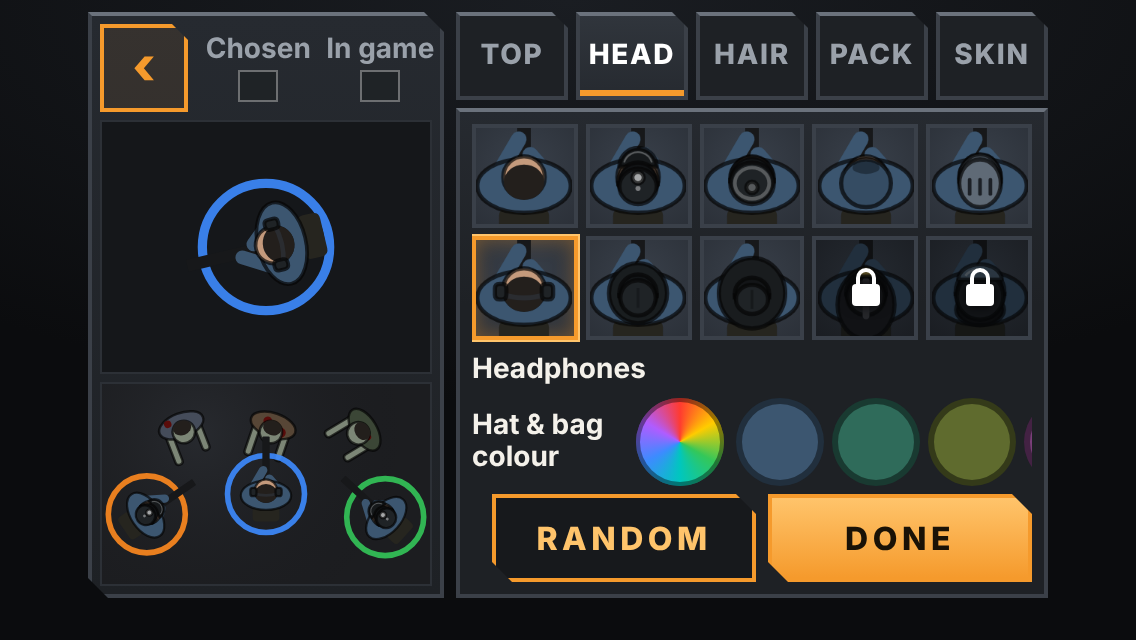
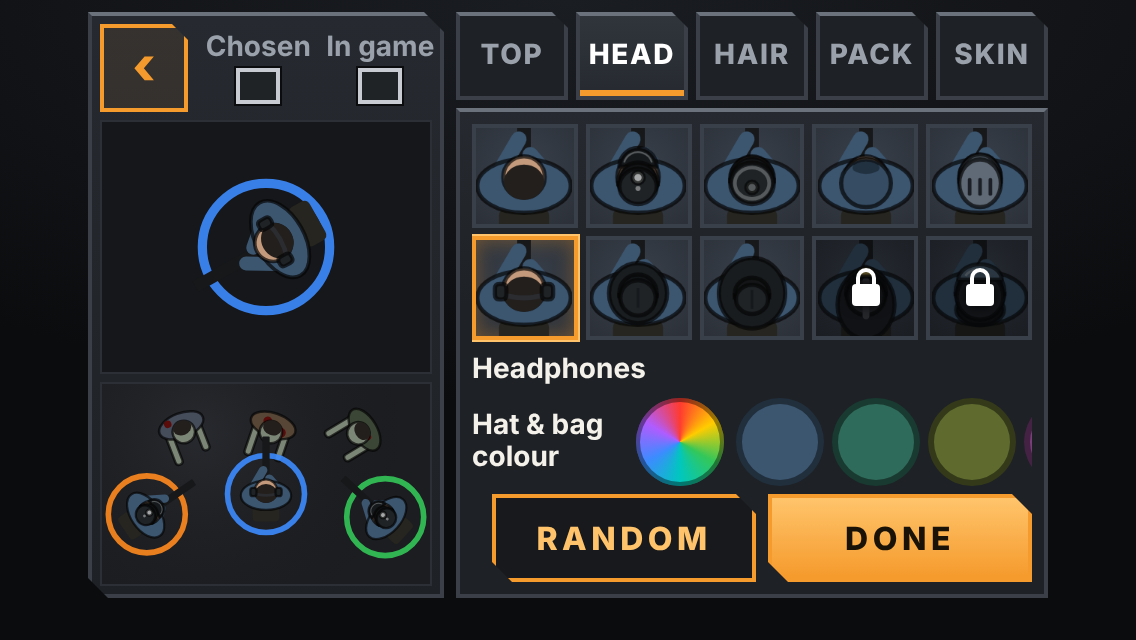
Story 7.10 review fixes: L1 set_look ignored once Start began, L2 base checked in the save transaction (stale answer), L3 chip frame, L4 only retryable failures kept pending, L5 test title; screenshots regenerated
Claude-Session: https://claude.ai/code/session_01CgLgPV1eLFk5ts9nKEAyBU

Changed region(s): [[0.1849, 0.0625, 0.4005, 0.1875], [0.154, 0.3125, 0.2773, 0.4375]]

diff --git a/apps/client/src/net/lookSave.test.ts b/apps/client/src/net/lookSave.test.ts
@@ -53,7 +53,9 @@ describe("Done (AC 8, 9, 11; E4)", () => {
     expect(url).toBe("/api/account/look");
     expect(init.method).toBe("POST");
     expect(init.credentials).toBe("same-origin");
-    expect(JSON.parse(init.body as string)).toEqual({ look: A });
+    expect(JSON.parse(init.body as string)).toEqual({ look: A }); // a Done sends no base (last Done wins)
+    await saveLookCall(B, { fetch: f as unknown as typeof fetch, url: () => "/api/account/look" }, null);
+    expect(JSON.parse((f.mock.calls[1] as unknown as [string, RequestInit])[1].body as string)).toEqual({ look: B, base: null });
     expect((await saveLookCall(A, { fetch: (async () => new Response("", { status: 429 })) as unknown as typeof fetch })).kind).toBe("failed");
     expect(await saveLookCall(A, { fetch: (async () => Promise.reject(new Error("offline"))) as unknown as typeof fetch })).toEqual({ kind: "failed", status: 0 });
   });
@@ -92,6 +94,22 @@ describe("Done (AC 8, 9, 11; E4)", () => {
     expect(looks.pending()).toBeNull();
   });
 
+  it("review L4: a deterministic refusal (400, 403, 413) is never kept for a retry; 0 / 401 / 408 / 5xx are", async () => {
+    for (const status of [400, 403, 413]) {
+      const s = mem();
+      const looks = deviceLookStore(() => s);
+      looks.set(A);
+      expect(await saveFromEditor(B, deps(s, async () => ({ kind: "failed", status })))).toEqual({ kind: "refused" });
+      expect(looks.pending()).toBeNull();
+      expect(looks.get()).toBe(A);
+    }
+    for (const status of [0, 401, 408, 500, 503]) {
+      const s = mem();
+      expect(await saveFromEditor(B, deps(s, async () => ({ kind: "failed", status })))).toEqual({ kind: "offline" });
+      expect(deviceLookStore(() => s).pending()?.code).toBe(B);
+    }
+  });
+
   it("storage throws (private mode) → Done still saves to the server and still reports an offline save honestly; nothing throws", async () => {
     await expect(saveFromEditor(B, deps(blocked, async () => ({ kind: "saved", look: B })))).resolves.toEqual({ kind: "saved", look: B });
     await expect(saveFromEditor(B, deps(blocked, async () => ({ kind: "failed", status: 0 })))).resolves.toEqual({ kind: "offline" });
@@ -109,7 +127,7 @@ describe("the retry at the next start (AC 9; beat the rule 3, 4)", () => {
     looks.savePending(B, 1);
     const call = vi.fn(async () => ({ kind: "saved", look: B }) as LookSaveCall);
     expect(await syncPendingLook(deps(s, call, { session: session(A) }))).toBe("synced");
-    expect(call).toHaveBeenCalledWith(B);
+    expect(call).toHaveBeenCalledWith(B, A); // review L2: the base travels, the server re-checks it
     expect(looks.pending()).toBeNull();
     expect(s.map.get(DEVICE_LOOK_KEY)).toBe(B);
     expect(await syncPendingLook(deps(s, call, { session: session(B) }))).toBe("none");
@@ -126,6 +144,26 @@ describe("the retry at the next start (AC 9; beat the rule 3, 4)", () => {
     expect(call).not.toHaveBeenCalled();
     expect(looks.get()).toBe(C);
     expect(looks.pending()).toBeNull();
+  });
+
+  it("review L2: the server answers stale (another phone saved between the session read and the send) → its look wins", async () => {
+    const s = mem();
+    const looks = deviceLookStore(() => s);
+    looks.set(A);
+    looks.savePending(B, 1);
+    expect(await syncPendingLook(deps(s, async () => ({ kind: "saved", look: C, stale: true }), { session: session(A) }))).toBe("server_won");
+    expect(looks.get()).toBe(C);
+    expect(looks.pending()).toBeNull();
+  });
+
+  it("review L4: a pending look the server refuses for good (400) is dropped, not retried at every start", async () => {
+    const s = mem();
+    const looks = deviceLookStore(() => s);
+    looks.set(A);
+    looks.savePending(B, 1);
+    expect(await syncPendingLook(deps(s, async () => ({ kind: "failed", status: 400 }), { session: session(A) }))).toBe("offline");
+    expect(looks.pending()).toBeNull();
+    expect(looks.get()).toBe(A);
   });
 
   it("a session answer while pending: kept if the server still has the base, replaced if it moved (deviceLook.set)", () => {
@@ -150,7 +188,7 @@ describe("the retry at the next start (AC 9; beat the rule 3, 4)", () => {
     expect(await syncPendingLook(deps(s, call, { session: session(undefined) }))).toBe("offline");
     expect(call).not.toHaveBeenCalled();
     expect(await syncPendingLook(deps(s, call, { session: session(null) }))).toBe("offline");
-    expect(call).toHaveBeenCalledWith(B);
+    expect(call).toHaveBeenCalledWith(B, null);
     expect(looks.pending()?.code).toBe(B);
   });
 

diff --git a/apps/client/src/net/lookSave.ts b/apps/client/src/net/lookSave.ts
@@ -16,10 +16,16 @@ import { progressStore } from "./progressStore";
 
 export const DEFAULT_LOOK_CODE = encodeLook(DEFAULT_LOOK);
 
-export type DoneResult = { kind: "saved"; look: string | null } | { kind: "rateLimited" } | { kind: "offline" };
+export type DoneResult = { kind: "saved"; look: string | null } | { kind: "rateLimited" } | { kind: "offline" } | { kind: "refused" };
+
+/**
+ * Review L4: the failures worth keeping a look on the phone for and retrying later — no answer (0), no account yet
+ * (401), a busy or down save server (408, 5xx). A deterministic refusal (400, 403, 413…) would fail again every start.
+ */
+export const retryable = (status: number): boolean => status === 0 || status === 401 || status === 408 || status >= 500;
 
 export interface LookSaveDeps {
-  call: (code: string) => Promise<LookSaveCall>;
+  call: (code: string, base?: string | null) => Promise<LookSaveCall>;
   session: (over?: Partial<AccountDeps>) => ReturnType<typeof accountSession>;
   looks: DeviceLookStore;
   /** The hub's copy of my progress: the stored look replaces its `look` (when it has one). */
@@ -27,7 +33,7 @@ export interface LookSaveDeps {
   now: () => number;
 }
 
-const defaults = (): LookSaveDeps => ({ call: (code) => saveLookCall(code), session: accountSession, looks: deviceLook, progress: progressStore, now: Date.now });
+const defaults = (): LookSaveDeps => ({ call: (code, base) => saveLookCall(code, {}, base), session: accountSession, looks: deviceLook, progress: progressStore, now: Date.now });
 
 function stored(look: string | null, deps: LookSaveDeps): void {
   deps.looks.markSynced(look);
@@ -44,6 +50,7 @@ export async function saveFromEditor(code: string, over: Partial<LookSaveDeps> =
     return { kind: "saved", look: r.look };
   }
   if (r.status === 429) return { kind: "rateLimited" };
+  if (!retryable(r.status)) return { kind: "refused" };
   deps.looks.savePending(code === DEFAULT_LOOK_CODE ? null : code, deps.now());
   return { kind: "offline" };
 }
@@ -62,10 +69,14 @@ export async function syncPendingLook(over: Partial<LookSaveDeps> = {}): Promise
     deps.looks.markSynced(serverLook); // another phone saved since: its newer look wins
     return "server_won";
   }
-  const r = await deps.call(p.code ?? DEFAULT_LOOK_CODE);
-  if (r.kind !== "saved") return "offline";
+  // Review L2: the server re-checks the base inside its save transaction (another phone may save in between).
+  const r = await deps.call(p.code ?? DEFAULT_LOOK_CODE, p.base);
+  if (r.kind !== "saved") {
+    if (!retryable(r.status) && r.status !== 429) deps.looks.markSynced(serverLook); // review L4: it can never be stored
+    return "offline";
+  }
   stored(r.look, deps);
-  return "synced";
+  return r.stale ? "server_won" : "synced";
 }
 
 let startSync: Promise<SyncResult> | null = null;

diff --git a/apps/server/src/meta/look.test.ts b/apps/server/src/meta/look.test.ts
@@ -150,6 +150,23 @@ describe("POST /account/look (Story 7.10 AC 8, 11; E2)", () => {
     expect(await stored(a.id)).toBe(STARTER); // the extra field is dropped by the decoder
   });
 
+  it("review L2 (two phones): a save with a base is stored only while the account still has that base; else the newer look is kept and answered stale", async () => {
+    const a = await account();
+    // phone A saves STARTER; phone B (offline earlier, edited from the default look = base null) retries OTHER
+    const OTHER = "v1|top:puffer|head:hood|hair:curly|pack:duffel|skin:2|c:112233,445566,778899";
+    expect((await post(port, { token: a.token, look: STARTER })).body.look).toBe(STARTER);
+    const stale = await post(port, { token: a.token, raw: JSON.stringify({ look: OTHER, base: null }) });
+    expect(stale.status).toBe(200);
+    expect(stale.body).toEqual({ ok: true, look: STARTER, stale: true });
+    expect(await stored(a.id)).toBe(STARTER); // A's newer look is kept
+    // with the right base it is stored (B edited from A's look)
+    const ok = await post(port, { token: a.token, raw: JSON.stringify({ look: OTHER, base: STARTER }) });
+    expect(ok.body).toEqual({ ok: true, look: OTHER });
+    expect(await stored(a.id)).toBe(OTHER);
+    // a base that is not a plausible look is refused by the schema
+    expect((await post(port, { token: a.token, raw: JSON.stringify({ look: OTHER, base: "x".repeat(100) }) })).status).toBe(400);
+  });
+
   it("403 for a foreign Origin when origins are set (CSRF), like the other account calls", async () => {
     const booted = await bootTestServer({ database, sessionSecret: SECRET, allowedOrigins: ["https://game.example"] });
     try {
@@ -171,7 +188,7 @@ describe("saveLook (unit): owned set from the locked row, 503 when the save serv
     expect(ownedFor(row).has("head:riot")).toBe(false);
     expect(ownedFor({ ...row, cosmetics: ["head:riot"] } as Progress).has("head:riot")).toBe(true);
     let written: string | null | undefined;
-    const progress = { saveLook: async (_id: string, f: (r: Progress) => string | null) => (written = f({ ...row, cosmetics: ["head:riot"] } as Progress)) } as unknown as ProgressRepo;
+    const progress = { saveLook: async (_id: string, f: (r: Progress) => string | null) => ({ look: (written = f({ ...row, cosmetics: ["head:riot"] } as Progress)), written: true }) } as unknown as ProgressRepo;
     const out = await saveLook({ cookieToken: "ab".repeat(16), look: STARTER.replace("head:beanie", "head:riot") }, { accounts, progress, ipLimiter: limiter(), accountLimiter: limiter(), logGate: limiter() });
     expect(out).toEqual({ status: 200, body: { ok: true, look: STARTER.replace("head:beanie", "head:riot") } });
     expect(written).toContain("head:riot");

diff --git a/apps/server/src/meta/look.ts b/apps/server/src/meta/look.ts
@@ -11,7 +11,7 @@
  */
 import { DEFAULT_LOOK, decodeLook, encodeLook, guestTokenSchema, ownedParts } from "@topdown/shared";
 import type { AccountsRepo } from "../db/accountsRepo";
-import type { Progress, ProgressRepo } from "../db/progressRepo";
+import { KEEP_LOOK, type Progress, type ProgressRepo } from "../db/progressRepo";
 import { ipKey, type SlidingWindowLimiter } from "../net/rateLimit";
 import { log } from "../ops/logger";
 import { hashGuestToken } from "../run/lobby";
@@ -25,7 +25,7 @@ export interface LookDeps {
 }
 
 export type LookOutcome =
-  | { status: 200; body: { ok: true; look: string | null } }
+  | { status: 200; body: { ok: true; look: string | null; stale?: true } }
   | { status: 401 | 429 | 503; error: "no_account" | "rate_limited" | "save_unavailable" };
 
 const DEFAULT_CODE = encodeLook(DEFAULT_LOOK);
@@ -53,7 +53,11 @@ export function lookIpAllowed(ip: string, deps: Pick<LookDeps, "ipLimiter" | "lo
   return false;
 }
 
-export async function saveLook(input: { cookieToken: string | null | undefined; look: string }, deps: LookDeps): Promise<LookOutcome> {
+/**
+ * `base` (review L2): the stored look the save was edited from (undefined = none sent: the last Done wins). When given,
+ * the look is stored only if the locked row still holds `base`; else the newer stored look is kept and answered `stale`.
+ */
+export async function saveLook(input: { cookieToken: string | null | undefined; look: string; base?: string | null | undefined }, deps: LookDeps): Promise<LookOutcome> {
   const token = guestTokenSchema.safeParse(input.cookieToken);
   if (!token.success) return { status: 401, error: "no_account" };
   let accountId: string;
@@ -70,13 +74,18 @@ export async function saveLook(input: { cookieToken: string | null | undefined; 
   }
   try {
     let replaced = 0;
-    const stored = await deps.progress.saveLook(accountId, (row) => {
+    const out = await deps.progress.saveLook(accountId, (row) => {
+      if (input.base !== undefined && row.look !== input.base) return KEEP_LOOK;
       const c = canonicalLook(input.look, ownedFor(row));
       replaced = c.replaced;
       return c.look;
     });
+    if (!out.written) {
+      log.info({ accountId }, "look_save_stale");
+      return { status: 200, body: { ok: true, look: out.look, stale: true } };
+    }
     log.info({ accountId, replaced }, "look_saved");
-    return { status: 200, body: { ok: true, look: stored } };
+    return { status: 200, body: { ok: true, look: out.look } };
   } catch {
     return { status: 503, error: "save_unavailable" }; // logged as db_error by the repository
   }

diff --git a/apps/client/src/net/account.ts b/apps/client/src/net/account.ts
@@ -203,9 +203,10 @@ export async function trainBoost(boost: TrainingBoostId, level: number, requestI
  * default look), or `failed` with the status (0 = no answer: offline, timeout; 429 = too many saves; 401 no account;
  * 5xx save server down). Never throws. The cookie names the account (`credentials: "same-origin"`).
  */
-export type LookSaveCall = { kind: "saved"; look: string | null } | { kind: "failed"; status: number };
+export type LookSaveCall = { kind: "saved"; look: string | null; stale?: boolean } | { kind: "failed"; status: number };
 
-export async function saveLookCall(code: string, over: Partial<AccountDeps> = {}): Promise<LookSaveCall> {
+/** `base` (review L2): only the start-up retry sends it (the look it was edited from); the server then refuses to overwrite a newer look. */
+export async function saveLookCall(code: string, over: Partial<AccountDeps> = {}, base?: string | null): Promise<LookSaveCall> {
   const deps = { ...defaults(), url: () => `${serverUrl()}${ACCOUNT_LOOK_PATH}`, ...over };
   const abort = new AbortController();
   const timer = setTimeout(() => abort.abort(), deps.timeoutMs);
@@ -214,12 +215,12 @@ export async function saveLookCall(code: string, over: Partial<AccountDeps> = {}
       method: "POST",
       credentials: "same-origin",
       headers: { "content-type": "application/json" },
-      body: JSON.stringify({ look: code }),
+      body: JSON.stringify(base === undefined ? { look: code } : { look: code, base }),
       signal: abort.signal,
     });
     if (!res.ok) return { kind: "failed", status: res.status };
     const parsed = lookSaveResponseSchema.safeParse(await res.json());
-    return parsed.success ? { kind: "saved", look: parsed.data.look } : { kind: "failed", status: res.status };
+    return parsed.success ? { kind: "saved", look: parsed.data.look, ...(parsed.data.stale ? { stale: true } : {}) } : { kind: "failed", status: res.status };
   } catch {
     return { kind: "failed", status: 0 };
   } finally {

diff --git a/apps/server/src/db/progressRepo.ts b/apps/server/src/db/progressRepo.ts
@@ -9,6 +9,9 @@ import { DB_TIMEOUT_MS, withDbTimeout } from "./timeout";
 
 import { boundedTransaction, type BoundedOptions } from "./boundedTx";
 
+/** Story 7.10 (review L2): what `saveLook`'s decider returns to leave the stored look as it is. */
+export const KEEP_LOOK: unique symbol = Symbol("keep_look");
+
 /** Story 7.2 (review M1 / RR-M1): the bank's bounds live in `db/boundedTx.ts` (re-exported for older imports). */
 export { BANK_LOCK_TIMEOUT_MS, BANK_TX_BUDGET_MS, BANK_TX_TIMEOUT_MS } from "./boundedTx";
 
@@ -84,7 +87,7 @@ export interface ProgressRepo {
    * there: 7.11's `cosmetics` joins the row), and `look` is replaced by its result (null = the default look). Returns
    * what was stored. The raw request never reaches this method, only the decoder's output.
    */
-  saveLook(accountId: string, canonical: (row: Progress) => string | null): Promise<string | null>;
+  saveLook(accountId: string, canonical: (row: Progress) => string | null | typeof KEEP_LOOK): Promise<{ look: string | null; written: boolean }>;
   /**
    * Story 7.5 (AC 3, T3; brief 18): buys Training level `level` of `boost` for `cost` (both from the SERVER's
    * progression.json) in ONE conditional update: `supplies >= cost AND COALESCE((training->>boost)::int, 0) = level − 1`
@@ -179,8 +182,9 @@ export function progressRepo(database: Database, timeoutMs = DB_TIMEOUT_MS, bank
           const row = locked[0];
           if (!row) throw new Error("progress row missing");
           const look = canonical(row);
+          if (look === KEEP_LOOK) return { look: row.look, written: false }; // review L2: a newer look is stored: keep it
           const updated = await tx.update(progress).set({ look, updatedAt: sql`now()` }).where(eq(progress.accountId, accountId)).returning({ look: progress.look });
-          return updated[0]?.look ?? null;
+          return { look: updated[0]?.look ?? null, written: true };
         },
         bankOptions,
       ),

diff --git a/tools/checks/survivorEditorWiring.test.ts b/tools/checks/survivorEditorWiring.test.ts
@@ -11,7 +11,7 @@ describe("Story 7.10 wiring", () => {
   it("App renders the editor; the hub's Survivor tab and MY lobby card open it (AC 1, O4)", () => {
     expect(read(`${UI}App.tsx`)).toMatch(/<SurvivorEditor \/>/);
     const hub = read(`${UI}ProgressScreen.tsx`);
-    expect(hub).toMatch(/t\.id === SURVIVOR_TAB_ID \? \(\) => uiStore\.set\(openSurvivor\(\{ kind: "progress", back: screen\.back \}\)\)/);
+    expect(hub).toMatch(/if \(t\.id === SURVIVOR_TAB_ID\) return uiStore\.set\(openSurvivor\(\{ kind: "progress", back: screen\.back \}\)\);/);
     const lobby = read(`${UI}LobbyScreen.tsx`);
     expect(lobby).toMatch(/\{\.\.\.\(you\s*\?\s*\{[\s\S]*?onClick: \(\) => uiStore\.set\(openSurvivor\(\{ kind: "lobby", code \}\)\)/);
     expect((lobby.match(/openSurvivor\(/g) ?? []).length).toBe(2); // click + Enter, both inside the `you` branch only
@@ -47,7 +47,7 @@ describe("Story 7.10 wiring", () => {
 
   it("server: the look route is on the router and the lobby message under net.guard", () => {
     const app = read("apps/server/src/app.ts");
-    expect(app).toMatch(/routes: createRouter\(\{ health, accountSession, accountUnlock, accountLook \}\)/);
+    expect(app).toMatch(/routes: createRouter\(\{ health, accountSession, accountUnlock, accountTraining, accountLook \}\)/);
     expect(app).toMatch(/look: \{ progress, ipLimiter: lookIpLimiter, accountLimiter: lookAccountLimiter \}/);
     expect(read("apps/server/src/rooms/RunRoom.ts")).toMatch(/this\.onMessage\(C2S\.LOBBY_SET_LOOK, this\.net\.guard\(lobbySetLookSchema, \(c, m\) => this\.onSetLook\(c, m\.look\)\)\)/);
     expect(read("apps/client/src/net/lobbyStore.ts")).toMatch(/this\.room\?\.send\(C2S\.LOBBY_SET_LOOK, \{ look \}\)/);

diff --git a/apps/server/src/rooms/RunRoom.look.test.ts b/apps/server/src/rooms/RunRoom.look.test.ts
@@ -256,7 +256,22 @@ describe("Story 7.10 D3: lobby.set_look — my card changes for everyone before 
     expect([...room.members.values()].find((m) => m.playerId === "p0")?.look).toBe(STARTER);
   });
 
-  it("spam: 20 looks at once → at most 2 per second applied, no kick, the client stays joined", async () => {
+  it("review L1: a look sent right after Start (same tick, before the phase changes) is ignored: the run keeps the look it started with", async () => {
+    vi.stubEnv("DEV_NO_WAVES", "1");
+    const host = quiet(await colyseus.sdk.create<RunStateView>(RUN_ROOM_NAME, opts("create", "Ana", token(), STARTER)));
+    const room = roomOf(host);
+    await vi.waitFor(() => expect(room.members.size).toBe(1));
+    host.send(C2S.LOBBY_SET_READY, { ready: true });
+    await vi.waitFor(() => expect(room.state.players.get("p0")?.ready).toBe(true));
+    const seen = vi.spyOn(room, "onSetLook");
+    host.send(C2S.RUN_START, {});
+    host.send(C2S.LOBBY_SET_LOOK, { look: OTHER }); // handled before the next tick: phase still "lobby", controller built
+    await vi.waitFor(() => expect(host.state.phase).toBe("build"));
+    expect(seen).toHaveBeenCalled(); // liveness: the message did reach the handler
+    expect(room.state.players.get("p0")?.look).toBe(STARTER);
+  });
+
+  it("spam: 8 looks at once → at most 2 per second applied, no kick, the client stays joined", async () => {
     const host = quiet(await colyseus.sdk.create<RunStateView>(RUN_ROOM_NAME, opts("create", "Ana", token())));
     const room = roomOf(host);
     await vi.waitFor(() => expect(room.members.size).toBe(1));

diff --git a/packages/shared/src/net/account.ts b/packages/shared/src/net/account.ts
@@ -122,9 +122,15 @@ export const ACCOUNT_LOOK_PATH = "/account/look";
 /** Story 7.10 (AC 11): the largest look-save body the route reads (bytes); a larger one is refused with 413. */
 export const LOOK_SAVE_MAX_BODY_BYTES = 256;
 
-export const lookSaveRequestSchema = z.object({ look: z.string().max(LOOK_SAVE_MAX_BODY_BYTES) }).strict();
+/**
+ * `base` (review L2, optional): the stored look this save was edited from (null = the default look). Sent by the start-up
+ * retry of a look saved only on the phone: the server stores the look only while the account's look is still `base`
+ * (checked inside the save transaction), else it keeps the newer look and answers it with `stale: true`. An editor
+ * Done sends no base (the last Done wins).
+ */
+export const lookSaveRequestSchema = z.object({ look: z.string().max(LOOK_SAVE_MAX_BODY_BYTES), base: z.string().max(LOOK_CODE_MAX).nullable().optional() }).strict();
 export type LookSaveRequest = z.infer<typeof lookSaveRequestSchema>;
 
 /** The answer: the code the server stored (canonical; unowned or unknown parts became the default parts), or null (the default look). */
-export const lookSaveResponseSchema = z.object({ ok: z.literal(true), look: z.string().max(LOOK_CODE_MAX).nullable() });
+export const lookSaveResponseSchema = z.object({ ok: z.literal(true), look: z.string().max(LOOK_CODE_MAX).nullable(), stale: z.boolean().optional() });
 export type LookSaveResponse = z.infer<typeof lookSaveResponseSchema>;

diff --git a/apps/server/src/auth/accountRoutes.ts b/apps/server/src/auth/accountRoutes.ts
@@ -136,7 +136,7 @@ export function createAccountRoutes(deps: AccountRouteDeps) {
     if (bodyBytes(headers, ctx.body) > LOOK_SAVE_MAX_BODY_BYTES) throw ctx.error(413, { message: "too_large" });
     const body = lookSaveRequestSchema.safeParse(ctx.body ?? {});
     if (!body.success) throw ctx.error(400, { message: "invalid_body" });
-    const out = await saveLook({ cookieToken: ctx.getCookie(GUEST_COOKIE), look: body.data.look }, { ...deps.look, accounts: deps.accounts, logGate: deps.logGate });
+    const out = await saveLook({ cookieToken: ctx.getCookie(GUEST_COOKIE), look: body.data.look, base: body.data.base }, { ...deps.look, accounts: deps.accounts, logGate: deps.logGate });
     if (out.status !== 200) throw ctx.error(out.status, { message: out.error });
     return out.body;
   });

diff --git a/apps/server/src/rooms/RunRoom.ts b/apps/server/src/rooms/RunRoom.ts
@@ -802,7 +802,9 @@ export class RunRoom extends Room<{ state: RunState; client: RunClient }> {
    * `MAX_LOBBY_LOOKS_PER_S` per second per member, extra ones are dropped silently (never a kick).
    */
   onSetLook(client: RunClient, code: string): void {
-    if (this.state.phase !== "lobby") return;
+    // Review L1: after `run.start` the phase reads "lobby" while the members' progress loads (7.4/7.5 `starting`) and
+    // until the first tick (`controller` built): the run has started, its look is the one it started with.
+    if (this.state.phase !== "lobby" || this.starting || this.controller !== null) return;
     const member = this.members.get(client.sessionId);
     const player = member && this.state.players.get(member.playerId);
     if (!member || !player) return;

diff --git a/apps/client/src/ui/overlay.css b/apps/client/src/ui/overlay.css
@@ -2393,6 +2393,8 @@ body:has(.menu.ph) .dev-gear {
 .tr-maxed {
   background: #f59a2c;
   color: #17191c;
+}
+
 /*
  * Story 7.10 (AC 2; ED1 + LK2 + LS1, Lumen LF5; docs/art/epic-7/lumen/editor.jpg): the survivor editor. Left: Back,
  * the Chosen / In game swatches, the big turning preview and the game-size preview. Right: the five tabs, the part
@@ -2490,7 +2492,8 @@ body:has(.menu.ph) .dev-gear {
 .se-sw__chip {
   width: 18px;
   height: 14px;
-  border: 1px solid rgba(255, 255, 255, 0.35);
+  border: 2px solid #c8ccd2; /* review L3: a light frame, so a dark colour (the default hat & bag) still shows */
+  box-shadow: 0 0 0 1px #0b0c0e;
 }
 
 .se-big,
